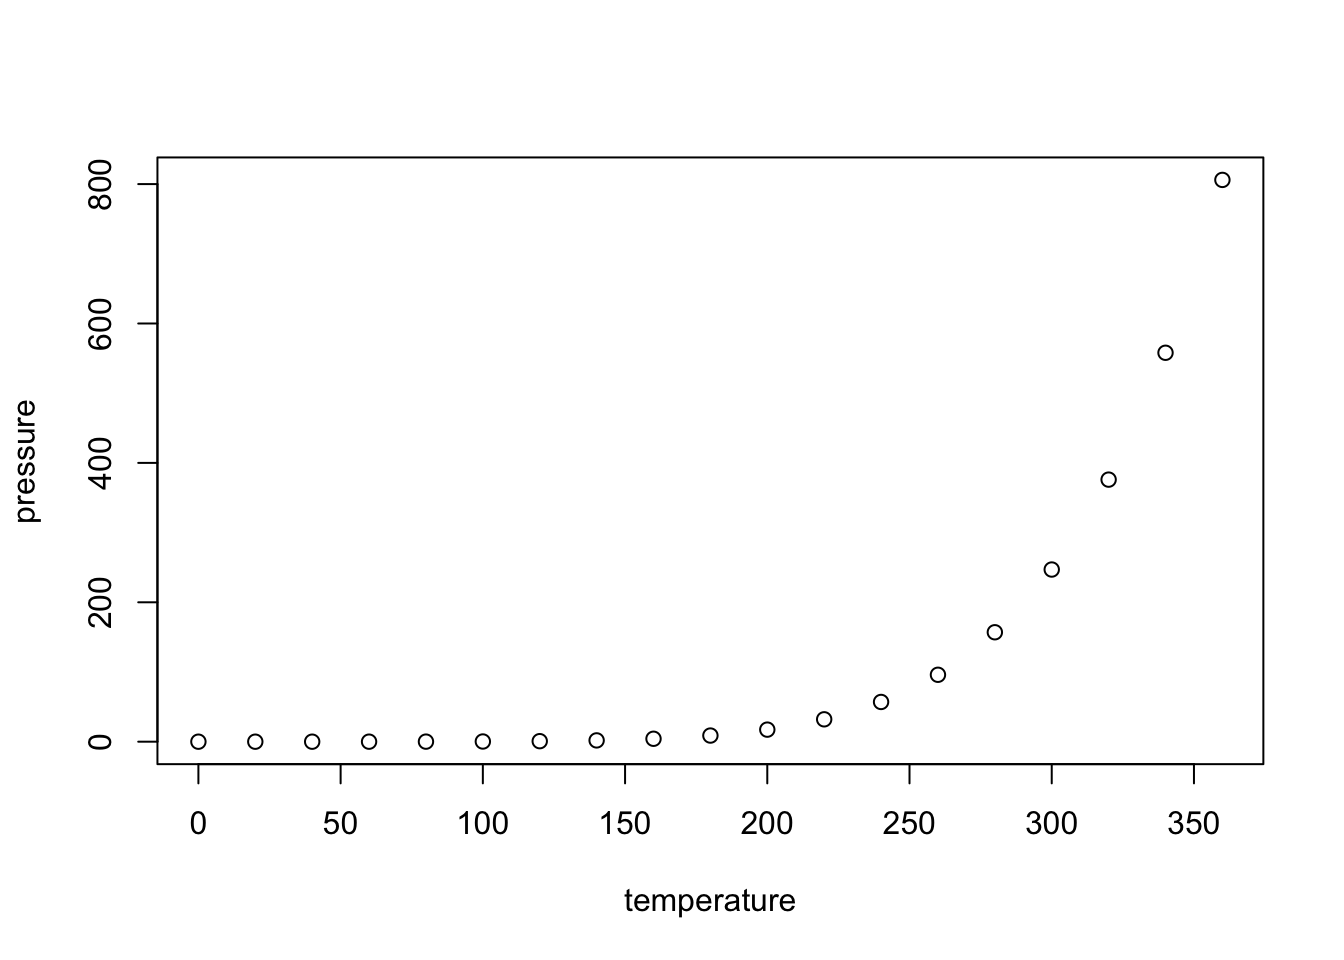
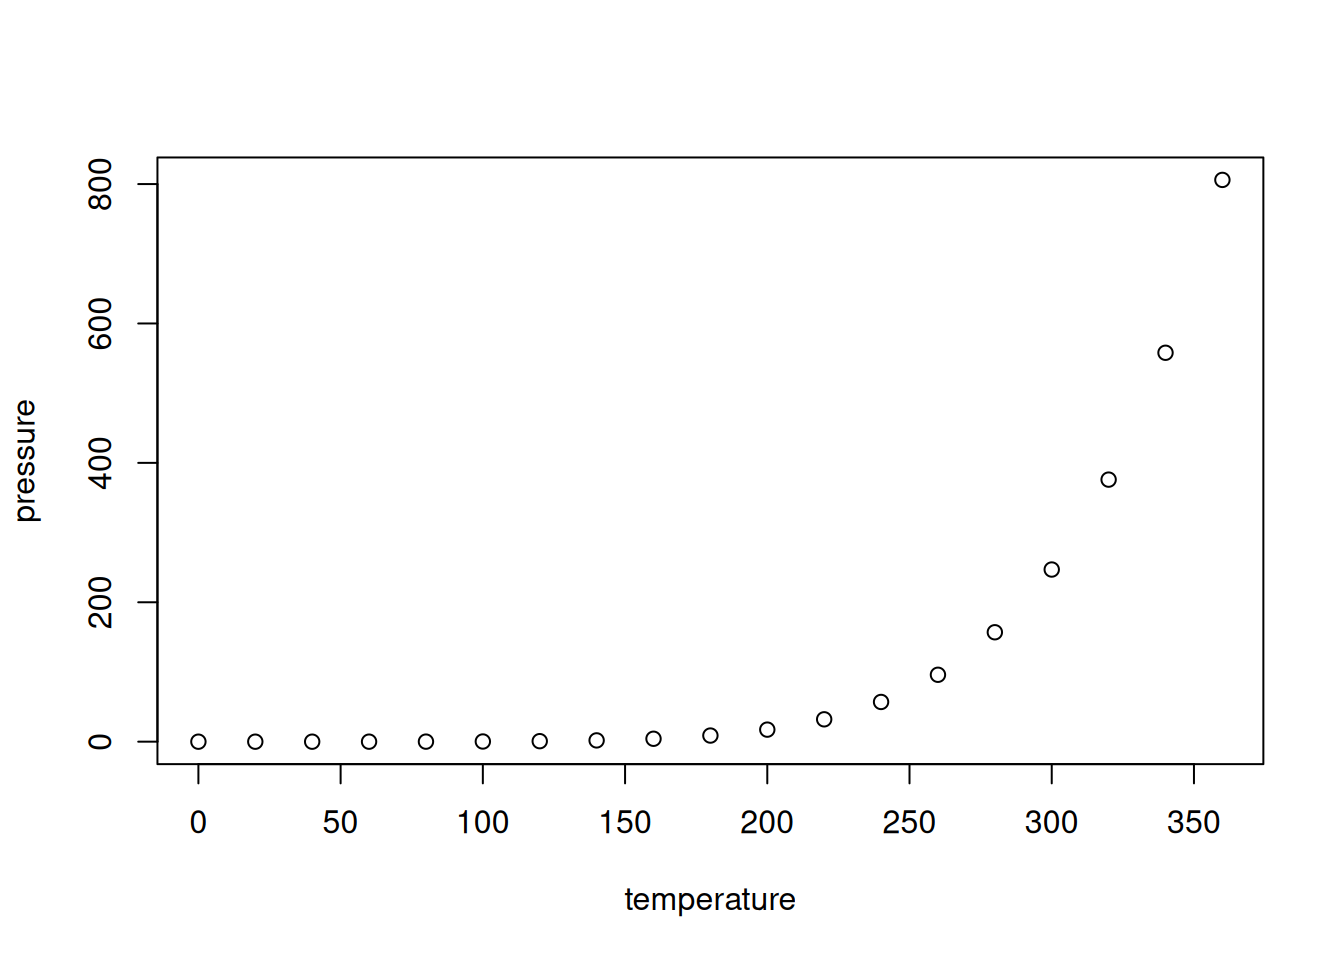
Maria's test

diff --git a/docs/index.html b/docs/index.html
@@ -168,6 +168,7 @@ code span.wa { color: #60a0b0; font-weight: bold; font-style: italic; } /* Warni
 <h1><span class="header-section-number">Chapter 1</span> Introduction<a href="#introduction" class="anchor-section" aria-label="Anchor link to header"></a></h1>
 <p>This is our demo book</p>
 <p>This is a test sentence</p>
+<p>This is Maria’s test sentence</p>
 
 <div id="r-markdown" class="section level2 hasAnchor" number="1.1">
 <h2><span class="header-section-number">1.1</span> R Markdown<a href="#r-markdown" class="anchor-section" aria-label="Anchor link to header"></a></h2>
